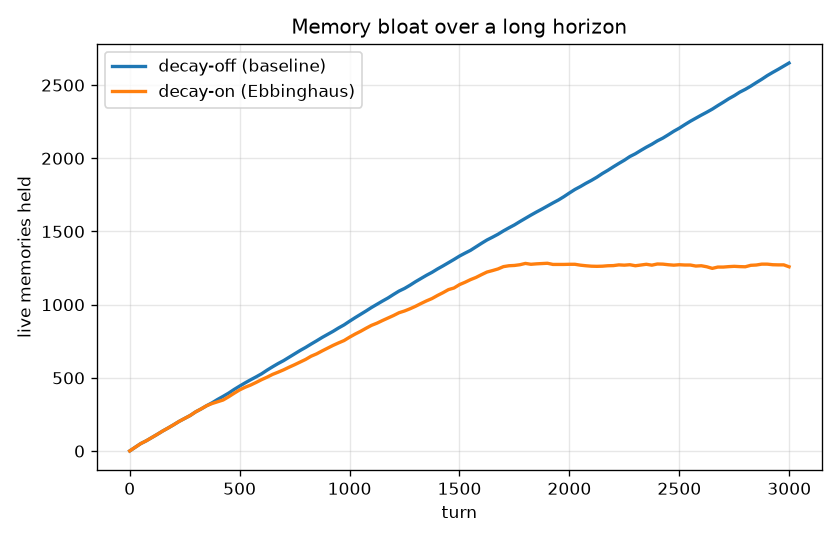
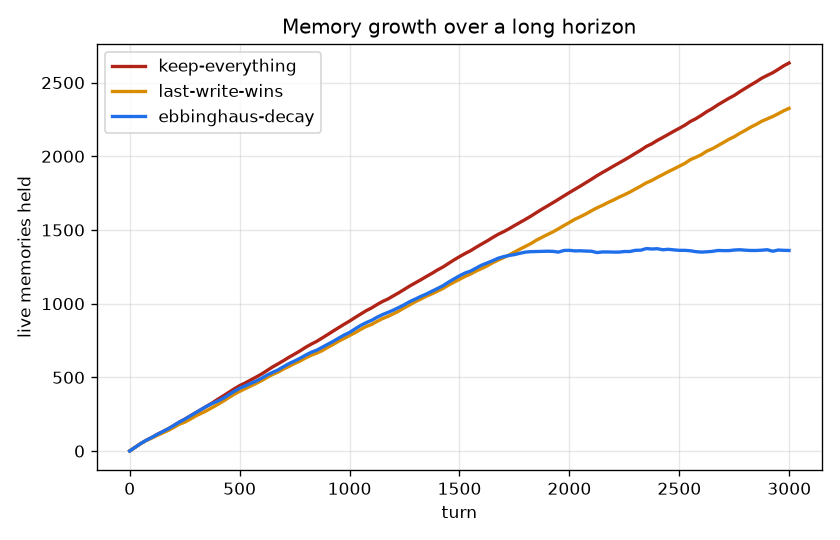
Rewrite README around the real three-arm finding
Leads with the honest result: no policy beats the ~0.33 contradiction
floor set by extraction misses; decay's genuine win over mem0-style dedup
is ~40% less memory at matched contradiction/recall; forgetting is a
tunable frontier, not a free lunch. Restores the adverse precision number
with the duplicate-value explanation, moves the imperfect-extraction
caveat adjacent to the headline, and documents the phrasing normalization.
Regenerates plots (frontier replaces the old degenerate tradeoff curve).

diff --git a/README.md b/README.md
@@ -2,38 +2,49 @@
 
 *A benchmark for whether agent memory **forgets** — not just whether it recalls.*
 
-Every mainstream agent-memory library (mem0, Letta/MemGPT, Zep) is built and benchmarked around **recall**: can it fetch the right fact back. Almost none measure the other half of long-horizon memory — whether an agent **forgets stale facts, resolves contradictions, and stays bounded** over thousands of turns. That gap is where agents rot: the context window fills with outdated, contradictory memories and token cost grows without limit.
+Mainstream agent-memory libraries (mem0, Letta/MemGPT, Zep) are built and benchmarked around **recall**: can it fetch the right fact back. The under-measured half of long-horizon memory is whether an agent **forgets stale facts, resolves contradictions, and stays bounded** over thousands of turns — because that is where agents rot: the retrieved context fills with outdated, contradictory memories and token cost grows without limit.
 
-Forgetting-Bench measures that axis, and ships a small reference memory core whose decay module demonstrably beats a keep-everything baseline on it.
+Forgetting-Bench measures that axis on a reproducible long-horizon workload, and ships a small reference memory core with a pluggable decay module so you can see where forgetting helps, where it costs you, and where no memory policy can win.
+
+## The setup (why the numbers aren't gamed)
+
+A contradiction is only measurable if you know the ground truth. So the workload is **seeded and synthetic**: 3,000 turns of facts, value updates (contradictions), and distractor noise, with the correct current value of every slot known at every turn.
+
+The catch that makes this honest: the memory core does **not** receive clean slot keys. It **extracts** `(entity, attribute)` from raw text with a keyword extractor — and **40% of updates are phrased to defeat it** (paraphrases and implicit/numeric updates like *"Alice relocated to Denver"* or *"Bob got a raise to 110k"*, which never restate the attribute). When extraction misses, the update isn't linked to its slot, so contradiction suppression **cannot fire** and the stale fact survives. The metric, by contrast, is scored against ground truth the memory never sees. That gap is deliberate — it's what stops the contradiction metric from being a tautology, and it gives every method a real error floor.
 
 ## The finding
 
-On a seeded 3,000-turn workload of facts, updates, contradictions and distractor noise (349 queries, top-5 retrieval), turning on the Ebbinghaus decay module — versus the incumbent "keep everything" baseline — gives:
+Three memory policies over the same workload (seed 0, 3,000 turns, 367 queries, top-5 retrieval):
 
-| Metric | decay-off (baseline) | decay-on | |
-|---|---|---|---|
-| **Stale-fact contradiction rate** | **0.860** | **0.000** | ↓ contradictions eliminated |
-| Stale fraction of retrieved context | 0.474 | 0.000 | ↓ context no longer polluted |
-| Recall (current fact retrieved) | 0.997 | 0.997 | = no recall cost |
-| Answer accuracy (top-1 correct) | 0.980 | 0.983 | = held |
-| Final memory size (live entries) | 2,651 | 1,259 | ↓ 53% smaller |
-| Final token count | 19,251 | 9,444 | ↓ 51% cheaper |
+| Metric (n=367 queries) | keep-everything | last-write-wins | ebbinghaus-decay | want |
+|---|---|---|---|---|
+| **Stale-fact contradiction rate** | 0.807 | 0.330 | **0.319** | lower |
+| Stale fraction of retrieved context | 0.359 | 0.066 | **0.064** | lower |
+| Recall (current fact retrieved) | 0.760 | 0.670 | 0.668 | higher |
+| Answer accuracy (top-1 correct) | 0.657 | 0.657 | 0.654 | higher |
+| Precision (correct fact / retrieved) | 0.190 | 0.134 | 0.134 | higher |
+| **Final memory size** (entries) | 2,633 | 2,325 | **1,361** | lower |
+| **Final token count** | 18,859 | 17,121 | **9,903** | lower |
 
-The baseline answers the *current* question fine (recall 0.997) but drags a contradicted, stale fact into the retrieved context **86% of the time** — and its memory grows without bound. Decay removes every contradiction and roughly halves memory, at **no cost to recall**.
+Read this honestly — there are three distinct findings, not one flashy one:
 
-![Contradiction rate over the run](results/contradiction.png)
+1. **No policy drives contradictions to zero.** Keyword extraction misses ~40% of the updates, so there is a real contradiction *floor* (~0.33) that both dedup and decay hit. A benchmark where the number went to 0.000 would be measuring its own plumbing, not memory quality.
 
-Forgetting is not free everywhere: push decay harder (smaller stability `τ`) and you eventually forget live facts too. The benchmark makes that tradeoff explicit — there's a wide plateau where you keep full recall while shedding most of memory:
+2. **Decay's genuine win over the mem0-style bar is bounded memory, not contradiction.** `last-write-wins` (per-slot dedup — what mem0-style fact memory already does) matches decay on contradictions and recall. But it never forgets what it can't slot, so **distractor noise accumulates forever**. Ebbinghaus decay matches its contradiction handling (0.319 vs 0.330) and recall (0.668 vs 0.670) while holding **~40% less memory / ~42% fewer tokens** — and the gap widens with horizon:
 
-![Forgetting-vs-recall frontier](results/tradeoff.png)
+   ![Memory growth](results/bloat.png)
 
-<!-- TODO screenshot: terminal running `make bench` -->
+3. **Forgetting is a tunable frontier, not a free lunch.** Sweeping decay stability `τ` trades recall for fewer contradictions: `τ=30` cuts contradictions to 0.10 but drops recall to 0.50; `τ=1000` keeps recall at 0.67 but lets contradictions climb back to the 0.33 floor. `last-write-wins` is a *single fixed point* on this frontier; decay lets you move along it — at a fraction of the memory.
 
-Every number above is produced by running the code — see [Reproduce it](#reproduce-the-finding). Nothing here is hand-entered.
+   ![Forgetting-vs-recall frontier](results/frontier.png)
 
-## Why this is hard to measure (and why the workload is synthetic)
+Every number here is produced by `make bench` — see [Reproduce it](#reproduce-the-finding).
 
-To score a *contradiction* you must know the ground truth — what the current value of a fact actually is at turn *N*, and which retrieved memories are stale. Real chat logs don't come labeled. So Forgetting-Bench generates a **deterministic, seeded** stream where every update, contradiction and distractor is known, giving exact ground truth at every turn. No API keys, no model downloads, no paid calls — the whole thing runs offline and reproducibly.
+**On the one adverse number:** keep-everything "wins" precision (0.190 vs 0.134) and recall (0.760). That is hoarding, not skill — retaining every past value means old entries whose value coincidentally equals the current one get counted as correct hits. The same hoarding is why it has by far the *worst* contradiction rate. Reported here rather than dropped.
+
+## Scope of the claim
+
+This compares against a faithful **re-implementation** of last-write-wins fact memory, not a live mem0/Letta/Zep process. The adapter seam and a labeled stub exist ([below](#comparing-against-real-libraries)); wiring a real backend is the honest next step, not a shipped result. No claim here depends on running an incumbent.
 
 ## Install
 
@@ -43,17 +54,17 @@ cd forgetting-bench
 pip install -e ".[dev]"     # core is pure-stdlib; matplotlib only for plots
 ```
 
-## Quickstart — the memory core in 20 lines
+## Quickstart — the mechanism, and its blind spot
 
 ```python
 from forgetting_bench.memory import MemoryStore, EbbinghausDecay
+from forgetting_bench.workload import default_extractor
 
-mem = MemoryStore(decay=EbbinghausDecay(tau=150))
-mem.add("Alice's home city is boston.",     turn=0,  entity="alice", attribute="home_city")
-mem.add("Alice's home city is now denver.", turn=50, entity="alice", attribute="home_city")
+mem = MemoryStore(decay=EbbinghausDecay(tau=150), slot_extractor=default_extractor())
+mem.add("Alice's home city is boston.", turn=0)
+mem.add("Alice's home city is now denver.", turn=50)   # canonical: extractor links it
 
-top = mem.retrieve("What is Alice's home city?", now=60, k=2)
-for s in top:
+for s in mem.retrieve("What is Alice's home city?", now=60, k=2):
     print(f"{s.score:.2f}  strength={s.strength:.2f}  {s.entry.text}")
 ```
 
@@ -62,7 +73,18 @@ for s in top:
 0.04  strength=0.05  Alice's home city is boston.        <- contradicted, suppressed
 ```
 
-The stale "boston" fact is still in the stream but its ranking strength is crushed by supersession, so it won't pollute the agent's context. Swap `EbbinghausDecay` for `NoDecay` and it comes right back to the top.
+Now phrase the update as a paraphrase the keyword extractor can't slot:
+
+```python
+mem.add("Alice relocated to denver.", turn=50)   # extractor misses -> no supersession
+```
+
+```
+0.79  strength=1.00  Alice's home city is boston.        <- stale fact survives, ranks #1
+0.49  strength=1.00  Alice relocated to denver.
+```
+
+That miss is not a bug to hide — it is exactly the failure mode Forgetting-Bench quantifies.
 
 ## Reproduce the finding
 
@@ -70,11 +92,11 @@ The stale "boston" fact is still in the stream but its ranking strength is crush
 make bench      # == python -m forgetting_bench.experiment
 ```
 
-Runs the A/B (decay off vs on) plus the `τ` sweep over one seeded workload, prints the results table, and writes `results/summary.{json,md}` and three plots (`bloat.png`, `contradiction.png`, `tradeoff.png`). Deterministic: same seed, same numbers, every run.
+Runs all three arms plus the `τ` sweep over one seeded workload, prints the table, and writes `results/summary.{json,md}` and three plots (`bloat.png`, `contradiction.png`, `frontier.png`). Deterministic: same seed, same numbers.
 
 ```bash
-make test       # 36 tests over scoring, decay, supersession, metrics, workload,
-                # and a regression guard on the finding itself (across seeds)
+make test       # 44 tests: scoring, decay, supersession, extraction, metrics,
+                # workload ground truth, and a guard on the finding across seeds
 ```
 
 ## How it works
@@ -83,44 +105,41 @@ make test       # 36 tests over scoring, decay, supersession, metrics, workload,
 forgetting_bench/
 ├── memory/           the reference core
 │   ├── store.py        generative-agents retrieval: recency + importance + relevance
-│   ├── decay.py        pluggable forgetting: Ebbinghaus decay, consolidation, supersession, pruning
+│   ├── decay.py        pluggable policy: NoDecay, LastWriteWins, EbbinghausDecay
+│   ├── extractor.py    imperfect keyword slot-extraction (the honest crux)
 │   ├── embedder.py     dependency-free sparse hashing embedder (the "relevance" term)
 │   ├── importance.py   heuristic importance scorer (LLM-swappable)
 │   └── entry.py        the memory stream's atomic entry
 ├── workload/         seeded synthetic long-horizon stream with ground truth
 ├── bench/            harness + the forgetting-axis metrics
 ├── adapters/         run any memory system through the same harness
-└── experiment.py     the headline A/B + plots
+└── experiment.py     the three-arm experiment + plots
 ```
 
 **Retrieval** scores each memory by the generative-agents trio — recency, importance, relevance — as a weighted sum in `[0, 1]`, then multiplies by a **ranking strength** from the decay module.
 
-**The decay module** is the differentiator and is fully pluggable (`DecayModule` ABC). `EbbinghausDecay` provides:
-- **Time decay & consolidation** — retention follows `R(t) = exp(-t / S)`, where stability `S = τ · (1 + gain · importance)`, so important memories are forgotten more slowly.
-- **Contradiction supersession** — a newer fact about the same `(entity, attribute)` slot flags older ones as superseded, collapsing their ranking strength so stale facts drop out of retrieval.
-- **Pruning** — once retention falls below a threshold the entry is dropped, keeping memory bounded. Contradicted facts and low-importance noise cross the threshold first.
+**The decay module** (`DecayModule` ABC) is the pluggable axis. Three ship:
+- `NoDecay` — keep everything at full strength (the hoarding baseline).
+- `LastWriteWins` — a newer fact about the same *extracted* slot evicts the older one; no time decay, so noise is never forgotten.
+- `EbbinghausDecay` — retention `R(t) = exp(-t / S)` with importance-weighted stability `S = τ·(1 + gain·importance)` (important memories consolidate); **contradiction supersession** collapses a superseded fact's ranking strength; and **retention-threshold pruning** drops decayed entries so memory stays bounded. Ranking-strength (supersession) is kept separate from the time-decay curve (pruning) on purpose: multiplying the score by time-decay too would let a fresh irrelevant memory outrank an old but still-correct one.
 
-`NoDecay` — retain everything at full strength — is the incumbent baseline and the other arm of the A/B.
-
-**Relevance** uses a deterministic, dependency-free sparse hashing embedder by default so the demo needs no API key or model download. `Embedder` and `ImportanceScorer` are clean interfaces: swap in real sentence embeddings or an LLM importance rater without touching the store.
+**A note on the workload's phrasing.** Canonical updates are phrased in the same frame as the query (*"Alice's home city is now denver"* vs *"What is Alice's home city?"*), so stale and current versions of a slot are lexically near-identical and retrieval leans on recency + supersession to separate them — isolating the forgetting mechanism from a phrasing confound. The *hard* updates deliberately break that frame; that is the whole source of the contradiction floor.
 
 ## Comparing against real libraries (mem0 / Letta / Zep)
 
-The `MemoryAdapter` interface (`adapters/base.py`) is the seam: any memory system that can ingest an observation and answer a query with ranked memories can be scored by the same harness. `adapters/reference.py` wraps this repo's core; `adapters/mem0_stub.py` is a **documented, clearly-labeled stub** showing exactly where a real mem0 integration plugs in (including the metadata round-trip needed to score contradictions).
-
-**Status:** the MVP takes no hard dependency on those packages — the seam and docs are in place, but wiring a live backend is the honest next step, not a shipped feature.
+The `MemoryAdapter` interface (`adapters/base.py`) is the seam: any system that ingests an observation and answers a query with ranked memories can be scored by the same harness. `adapters/reference.py` wraps this repo's core; `adapters/mem0_stub.py` is a **documented, non-wired stub** showing exactly where a real mem0 integration plugs in (including the metadata round-trip needed to score contradictions). The MVP takes no hard dependency on those packages.
 
 ## Status / what's next
 
-- ✅ Reference memory core, seeded workload with ground truth, four forgetting-axis metrics, one-command reproducible A/B with plots, 36 tests.
-- 🔜 **Live incumbent adapters** — run mem0 / Letta / Zep through the harness for a head-to-head (interface + stub exist today; the backends are not wired).
-- 🔜 **Real embeddings / LLM importance** behind the existing interfaces, to check the finding survives semantic (not just lexical) relevance.
-- 🔜 **Richer contradiction types** — numeric drift, partial updates, and entity/attribute extraction from free text (today the workload supplies structured slot keys; production would extract them).
+- ✅ Reference core with three memory policies, imperfect slot extraction, seeded workload with ground truth, forgetting-axis metrics, one-command reproducible experiment with plots, 44 tests.
+- 🔜 **Live incumbent adapters** — run mem0 / Letta / Zep through the harness for a real head-to-head (interface + stub exist; backends not wired).
+- 🔜 **Semantic embeddings & LLM extraction** behind the existing interfaces — better extraction would *lower* the contradiction floor and *raise* recall on hard updates; the interesting question is whether decay's memory-bounding win survives, and it should.
 
 ### Honest limitations
 
-- The workload is **synthetic and lexical**: relevance is bag-of-words overlap, and supersession relies on structured `(entity, attribute)` keys the workload provides. This isolates the forgetting mechanism cleanly, but the finding should be re-validated with real embeddings and extracted keys (see next steps) before claiming it transfers to production traffic.
-- Contradiction detection here is exact-slot; fuzzy or numeric contradictions are future work.
+- **Lexical, not semantic.** Relevance is bag-of-words overlap, so paraphrased current facts are hard to retrieve for *every* arm — which is why recall tops out around 0.67 here. That caps all arms equally (a fair comparison), but the absolute recall numbers would rise with real embeddings.
+- **One extractor, false-negatives only.** The keyword extractor models missed contradictions; it doesn't yet model *false* supersession (wrongly merging two different slots), which would let forgetting hurt recall in a second way. That's a known gap, not modeled.
+- **Synthetic workload.** The finding should be re-validated on real multi-session traffic before claiming it transfers; the value here is a clean, reproducible testbed and a decay module with a measured, honest tradeoff — not a production benchmark result.
 
 ## License
 

diff --git a/results/summary.md b/results/summary.md
@@ -1,14 +1,13 @@
-# Forgetting-Bench A/B results
+# Forgetting-Bench results
 
-seed=0, n_turns=3000, k=5
+seed=0, n_turns=3000, k=5, tau=150
 
-| Metric (n=349 queries) | decay-off | decay-on | better |
-|---|---|---|---|
-| Stale-fact contradiction rate | 0.860 | 0.000 | lower |
-| Stale context fraction | 0.474 | 0.000 | lower |
-| Recall rate (current fact found) | 0.997 | 0.997 | higher |
-| Answer accuracy (top-1 correct) | 0.980 | 0.983 | higher |
-| Precision (correct fact / retrieved) | 0.257 | 0.199 | higher |
-| Final memory size | 2651 | 1259 | lower |
-| Peak memory size | 2651 | 1283 | lower |
-| Final token count | 19251 | 9444 | lower |
+| Metric (n=367 queries) | keep-everything | last-write-wins | ebbinghaus-decay | want |
+|---|---|---|---|---|
+| Stale-fact contradiction rate | 0.807 | 0.330 | 0.319 | lower |
+| Stale context fraction | 0.359 | 0.066 | 0.064 | lower |
+| Recall rate (current fact found) | 0.760 | 0.670 | 0.668 | higher |
+| Answer accuracy (top-1 correct) | 0.657 | 0.657 | 0.654 | higher |
+| Precision (correct fact / retrieved) | 0.190 | 0.134 | 0.134 | higher |
+| Final memory size | 2633 | 2325 | 1361 | lower |
+| Final token count | 18859 | 17121 | 9903 | lower |
